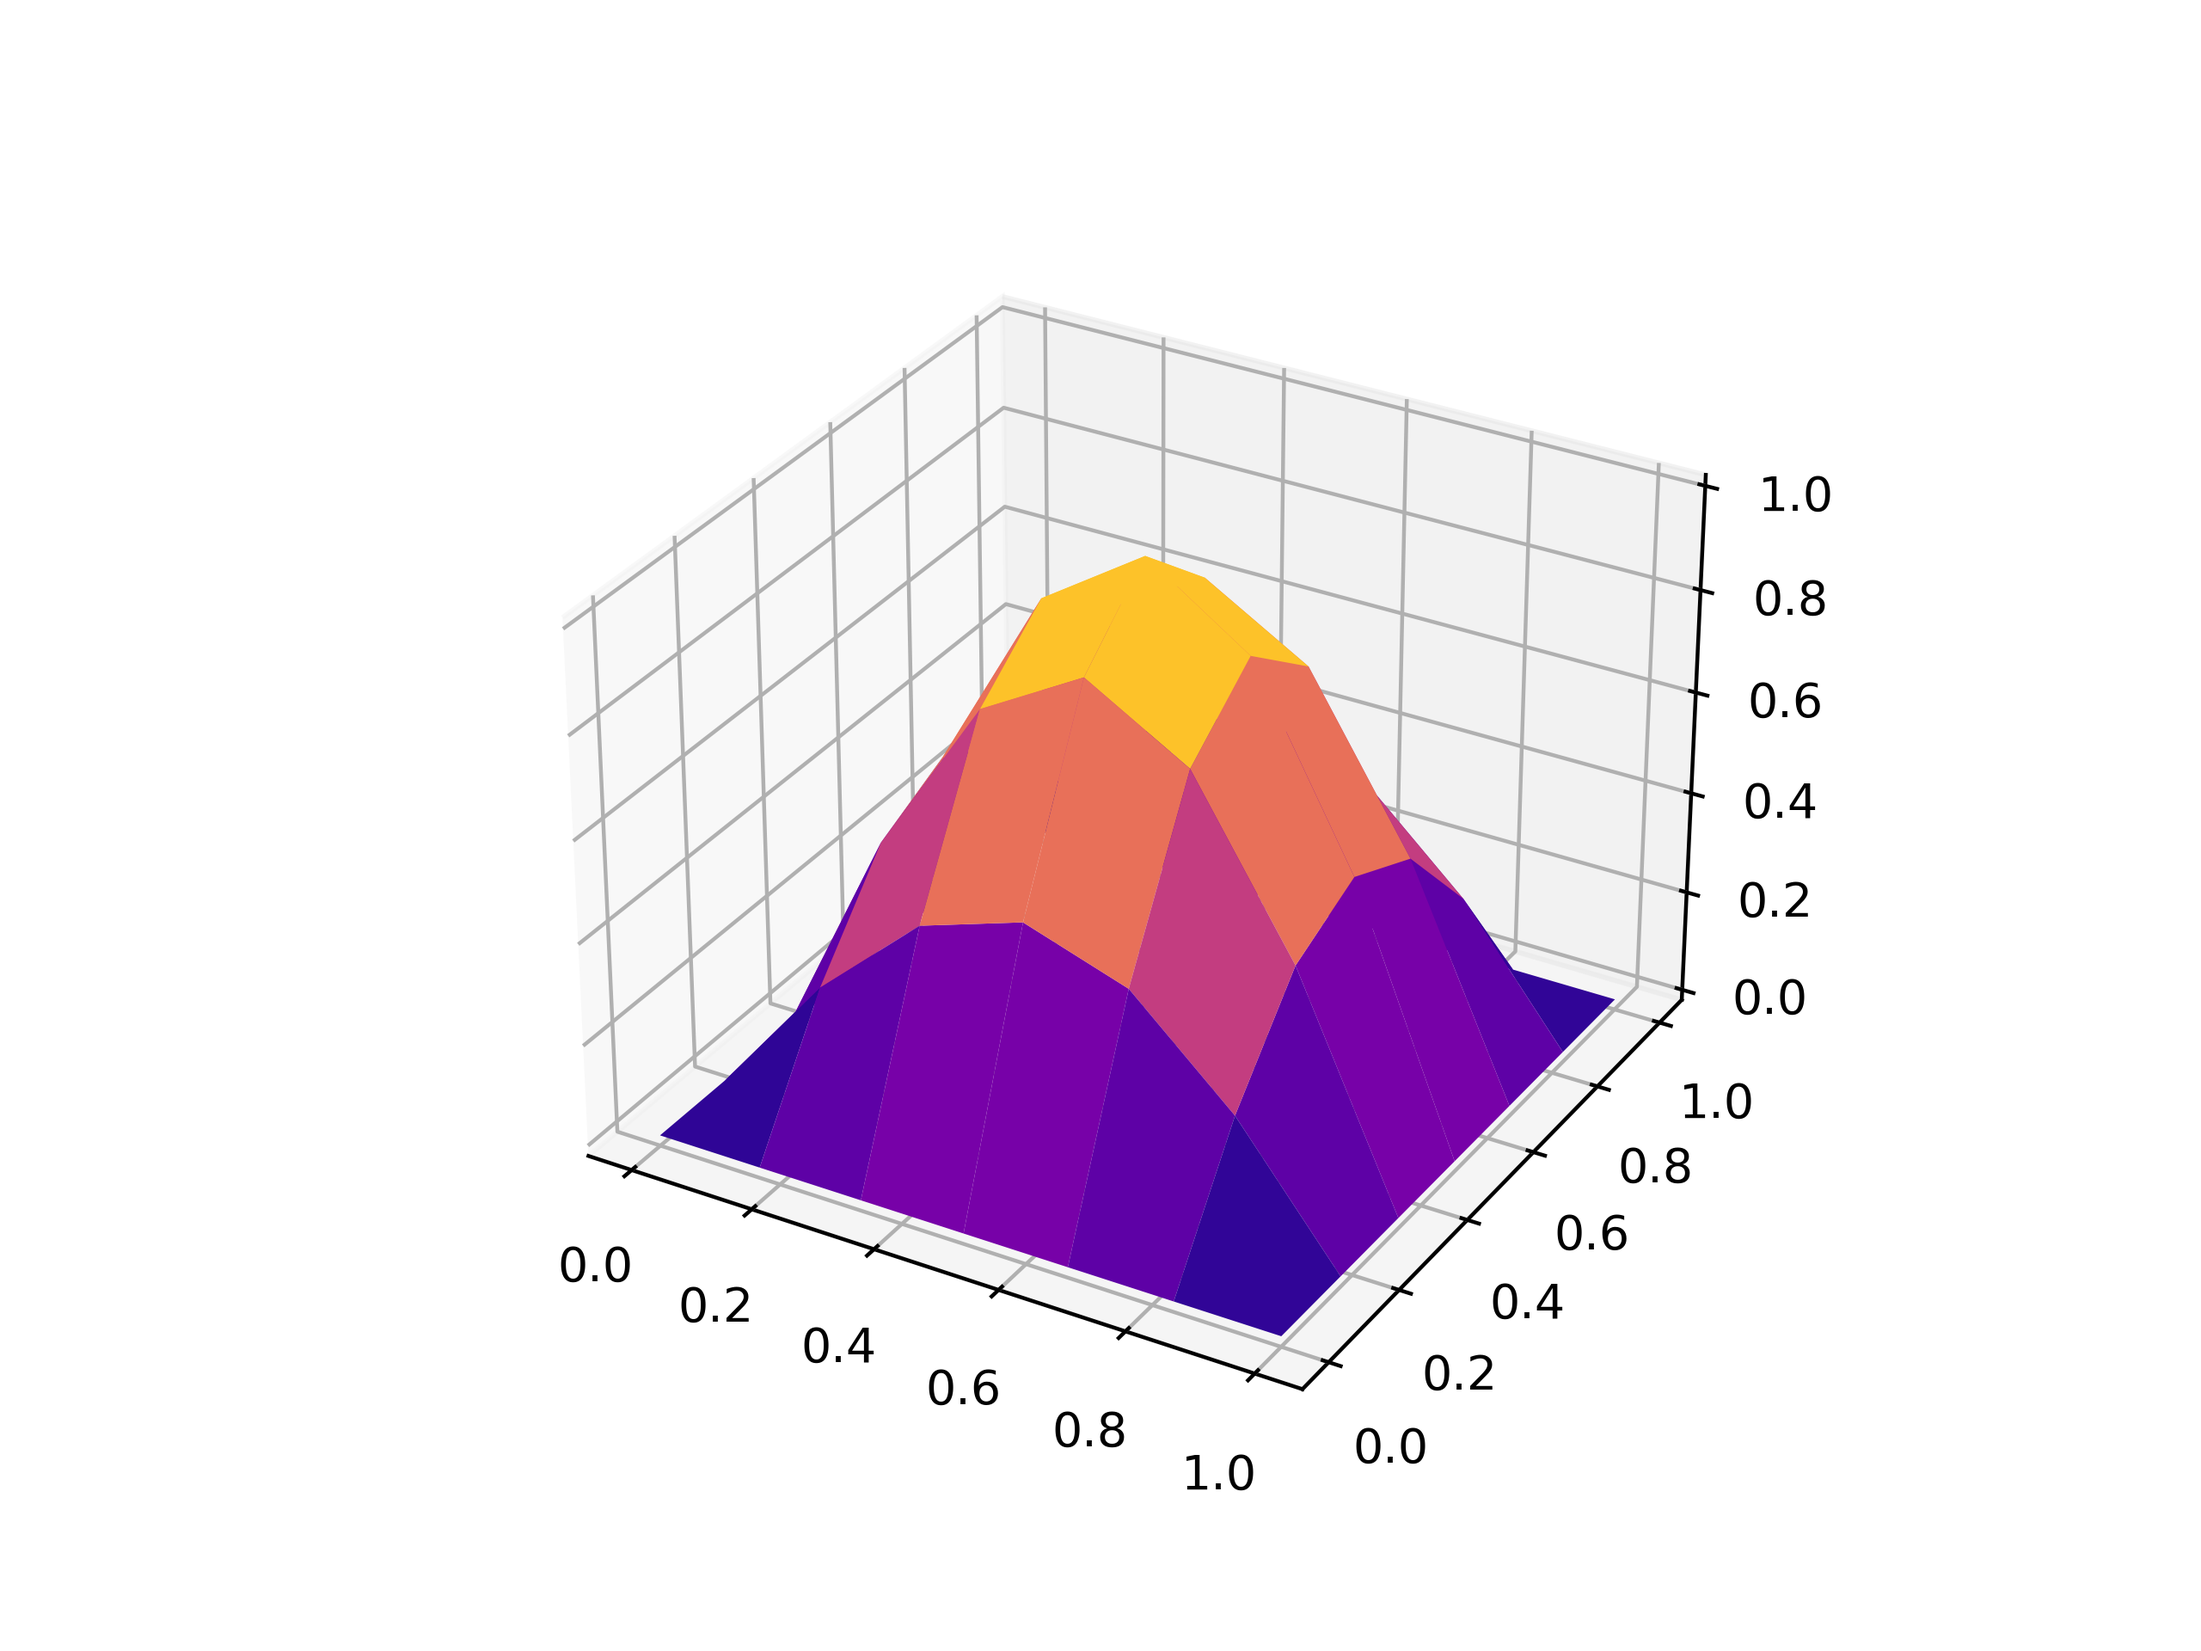
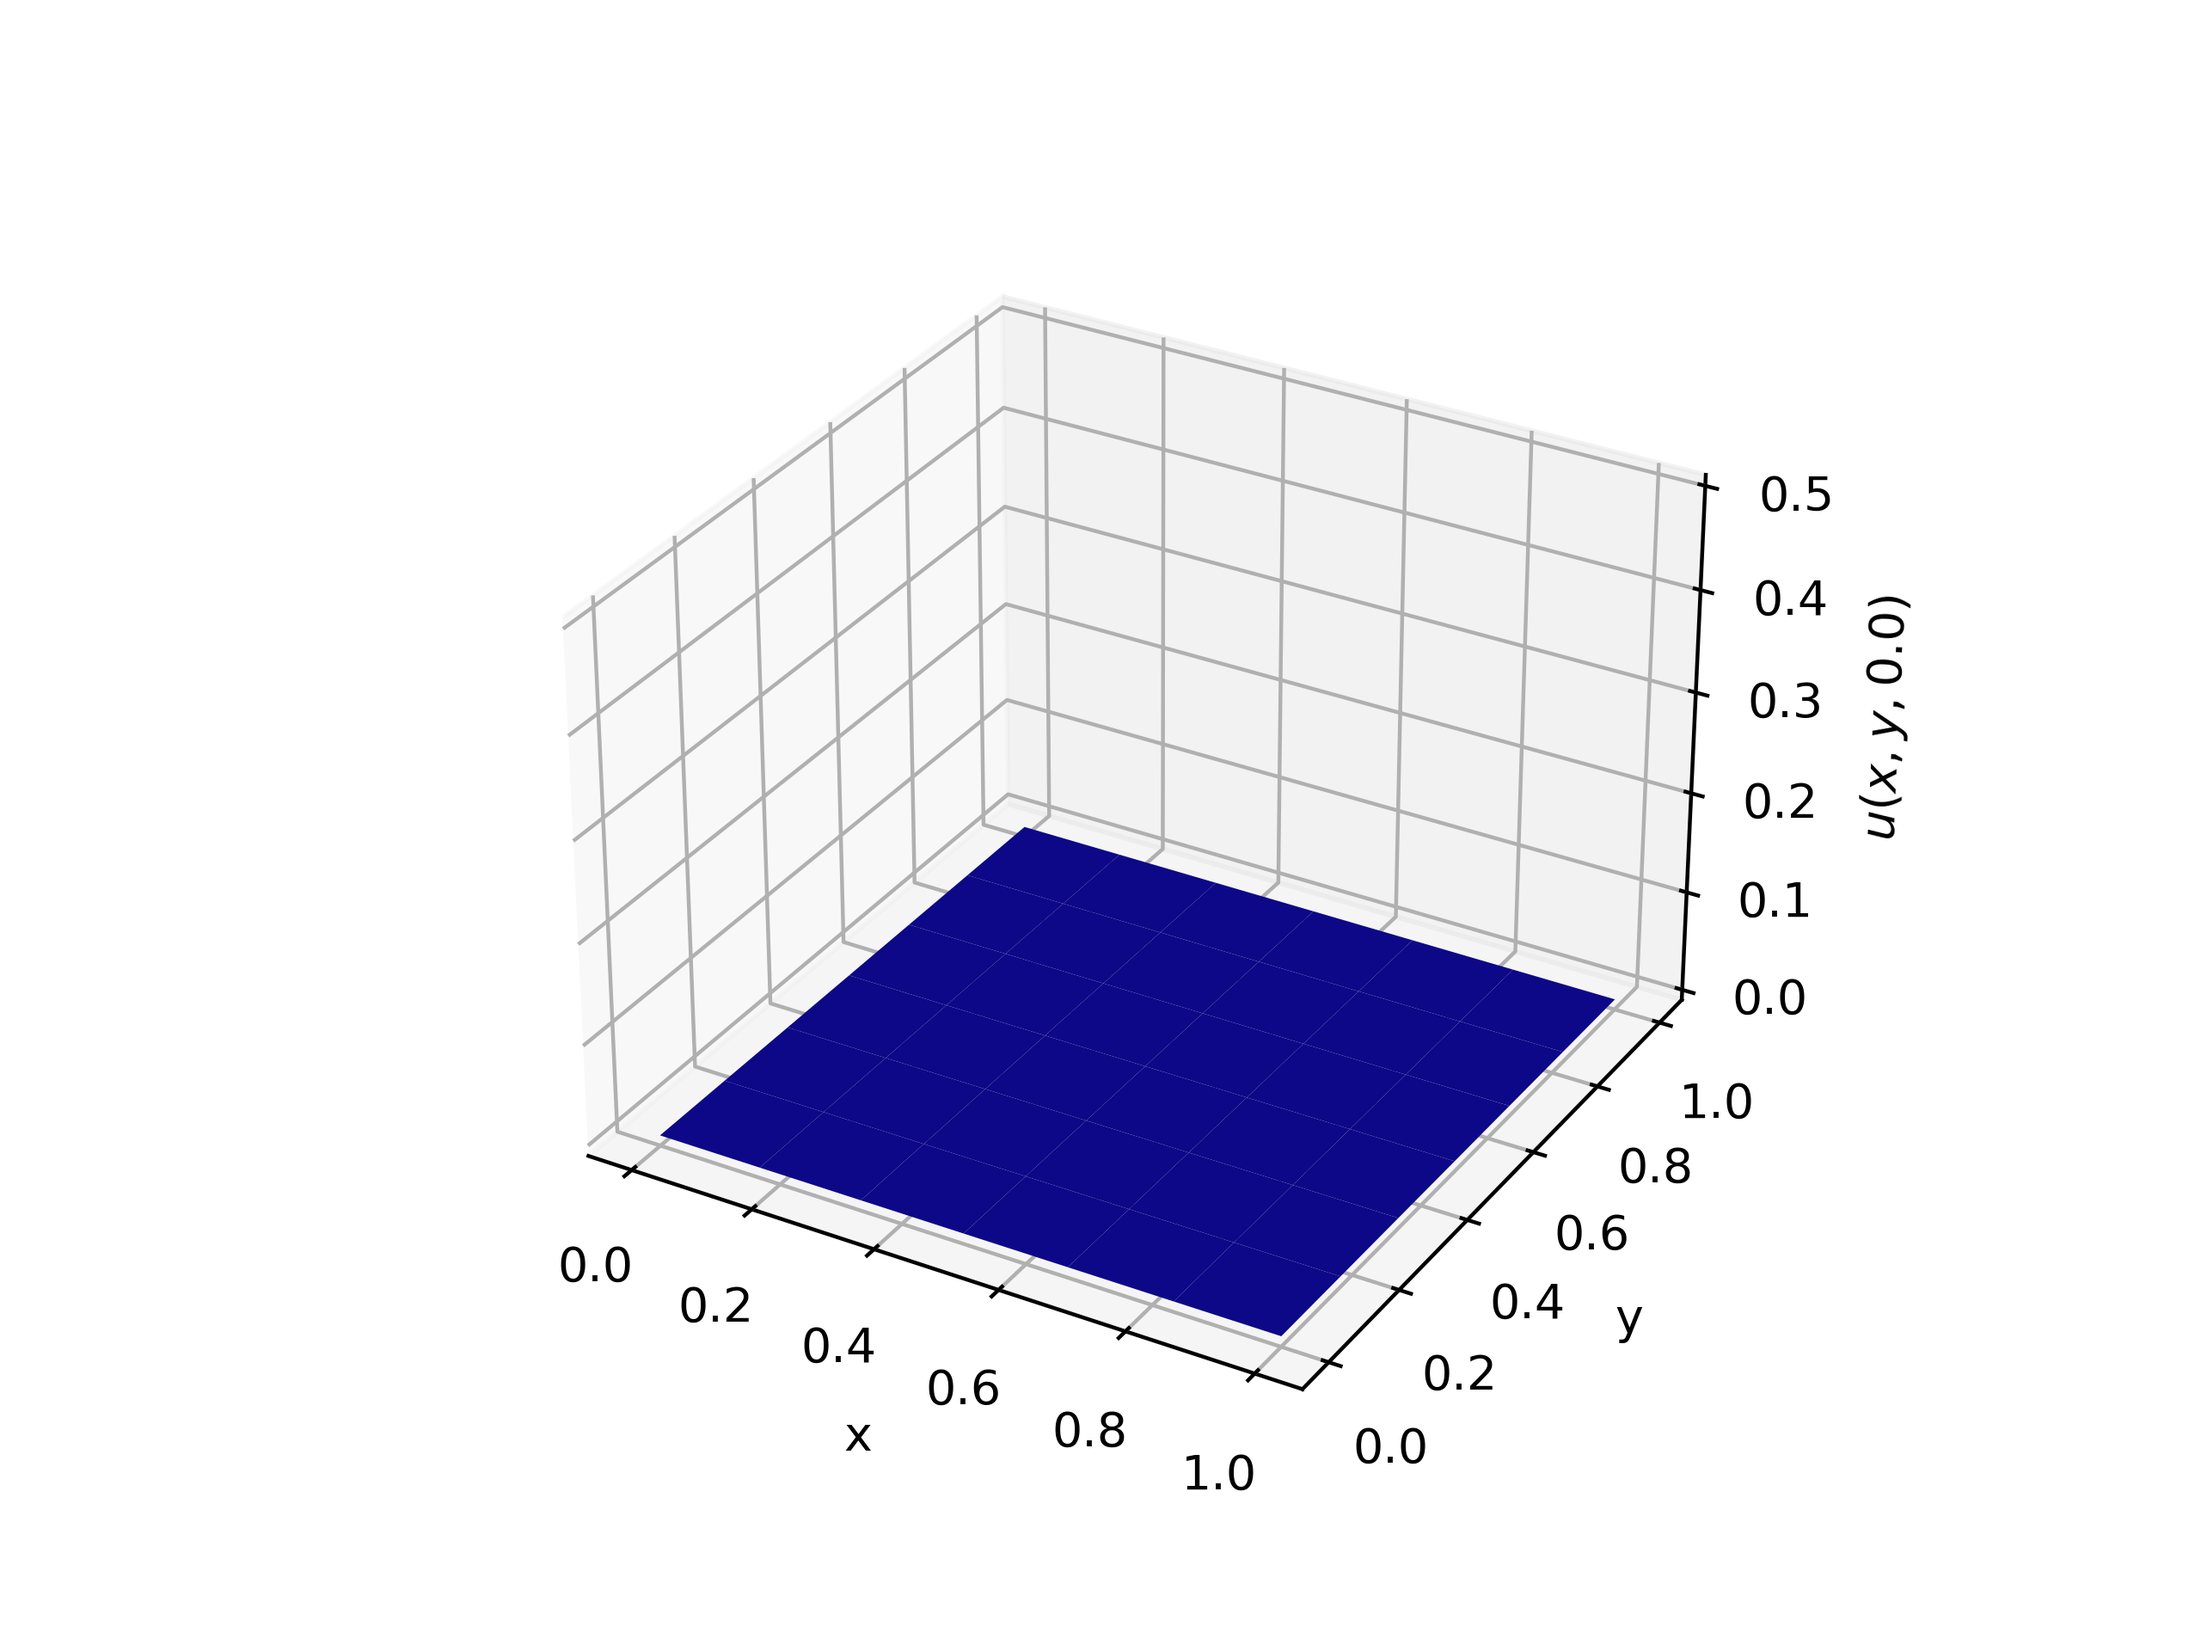
Add files via upload

Changed region(s): [[0.3125, 0.3125, 0.75, 0.8125], [0.8125, 0.3438, 0.875, 0.5], [0.7812, 0.2812, 0.8438, 0.3125]]

diff --git a/code/working/scripts/heat equation/heat_equation_2+1dim_testing.py b/code/working/scripts/heat equation/heat_equation_2+1dim_testing.py
@@ -13,7 +13,7 @@ from tools import basis_functions as bf
 from tools import vector_products as vp
 
 steps = 100 # accuracy or steps in integrals
- 
+
 # defining mesh
 H = 7
 x = np.linspace(0, 1, H)
@@ -25,16 +25,17 @@ elements = [[[x[i]  , y[j]  ],
              [x[i+1], y[j]  ], 
              [x[i]  , y[j+1]], 
              [x[i+1], y[j+1]]] for i in range(H-1) for j in range(H-1)]
- 
+
 # declaring time stepping nececities
 dt = .01 # change in time
 time_steps = 50 # amount of iterations we want
-u_0 = [np.sin(np.pi*x[0]) * np.sin(np.pi*x[1]) for x in vertices] # inital condtions at time=0
+#u_0 = [np.sin(np.pi*x[0]) * np.sin(np.pi*x[1]) for x in vertices] # inital condtions at time=0
+u_0 = [0 for x in vertices] # inital condtions at time=0
 u_sols = [u_0] # list for keeping track of evolution of system
 A_sols = []
 
 def force(x, t):
-    return 0
+    return ((2*(np.pi**2)*t) + 1) * np.sin(np.pi*x[0]) * np.sin(np.pi*x[1])
 
 # functions for calculation the entries of matrices
 def f(vert, x, u, time):
@@ -90,20 +91,20 @@ fps = frn//3
 
 def change_plot(frame_number, func_u_sols, plot):
    plot[0].remove()  
-   plot[0] = ax.plot_surface(X, Y, func_u_sols[frame_number], cmap="plasma", vmin=0, vmax=1)
+   plot[0] = ax.plot_surface(X, Y, func_u_sols[frame_number], cmap="plasma", vmin=0, vmax=.5)
 
 fig = plt.figure()
 ax = fig.add_subplot(projection='3d')
 plot = [ax.plot_surface(X, Y, func_u_sols[0])]
-ax.set_zlim(0, 1)
+ax.set_zlim(0, .5)
 ax.set_xlabel("x")
 ax.set_ylabel("y")
 ax.set_zlabel("u(x, y, t)")
-ax.set_title(r"$ \frac{\partial u}{\partial t} = \nabla^2 u $ with $u(x,y,0) = sin(\pi x)sin(\pi y)$")
+ax.set_title(r"$ \frac{\partial u}{\partial t} - \nabla^2 u = (2 \pi ^2 t + 1)sin(\pi x)sin(\pi y)$ with $u(x,y,0) = 0$")
 
 ani = animation.FuncAnimation(fig, change_plot, frn, fargs=(func_u_sols, plot), interval=1000 / fps)
-#fn = 'plot'
-#ani.save(fn+'.gif',writer='PillowWriter',fps=fps, dpi=400)
+fn = 'plot'
+ani.save(fn+'.gif',writer='PillowWriter',fps=fps, dpi=400)
 plt.show()
 
 # plot of matrix for first iteration
@@ -117,30 +118,30 @@ plt.clf()
 iter1 = 0
 fig = plt.figure()
 ax = plt.axes(projection ='3d')
-ax.axes.set_zlim3d(bottom=0, top=1) 
-ax.plot_surface(X, Y, func_u_sols[iter1], cmap="plasma", vmin=0, vmax=1)
+ax.axes.set_zlim3d(bottom=0, top=.5) 
+ax.plot_surface(X, Y, func_u_sols[iter1], cmap="plasma", vmin=0, vmax=.5)
 ax.set_xlabel('x')
 ax.set_ylabel('y')
 ax.set_zlabel(f'$u(x, y, {iter1*dt})$')
 plt.savefig(f"heat_equ_iter{iter1}", dpi=400)
 
 plt.clf()
-iter2 = int(len_u_sols/12)
+iter2 = int(len_u_sols*(1/3))
 fig = plt.figure()
 ax = plt.axes(projection ='3d')
-ax.axes.set_zlim3d(bottom=0, top=1) 
-ax.plot_surface(X, Y, func_u_sols[iter2], cmap="plasma", vmin=0, vmax=1)
+ax.axes.set_zlim3d(bottom=0, top=.5) 
+ax.plot_surface(X, Y, func_u_sols[iter2], cmap="plasma", vmin=0, vmax=.5)
 ax.set_xlabel('x')
 ax.set_ylabel('y')
 ax.set_zlabel(f'$u(x, y, {iter2*dt})$')
 plt.savefig(f"heat_equ_iter{iter2}", dpi=400)
 
 plt.clf()
-iter3 = int(len_u_sols/6)
+iter3 = int(len_u_sols*(2/3))
 fig = plt.figure()
 ax = plt.axes(projection ='3d')
-ax.axes.set_zlim3d(bottom=0, top=1) 
-ax.plot_surface(X, Y, func_u_sols[iter3], cmap="plasma", vmin=0, vmax=1)
+ax.axes.set_zlim3d(bottom=0, top=.5) 
+ax.plot_surface(X, Y, func_u_sols[iter3], cmap="plasma", vmin=0, vmax=.5)
 ax.set_xlabel('x')
 ax.set_ylabel('y')
 ax.set_zlabel(f'$u(x, y, {iter3*dt})$')
@@ -150,9 +151,10 @@ plt.clf()
 iter4 = time_steps
 fig = plt.figure()
 ax = plt.axes(projection ='3d')
-ax.axes.set_zlim3d(bottom=0, top=1) 
-ax.plot_surface(X, Y, func_u_sols[iter4], cmap="plasma", vmin=0, vmax=1)
+ax.axes.set_zlim3d(bottom=0, top=.5) 
+ax.plot_surface(X, Y, func_u_sols[iter4], cmap="plasma", vmin=0, vmax=.5)
 ax.set_xlabel('x')
 ax.set_ylabel('y')
 ax.set_zlabel(f'$u(x, y, {iter4*dt})$')
 plt.savefig(f"heat_equ_iter{iter4}", dpi=400)
+

diff --git a/code/working/scripts/stokes/stokes_2dim_ele copy.py b/code/working/scripts/stokes/stokes_2dim_ele copy.py
@@ -11,10 +11,10 @@ sys.path.append(top_dir)
 from tools import basis_functions as bf
 from tools import vector_products as vp
 
-steps = 500 # accuracy or steps in integrals
+steps = 200 # accuracy or steps in integrals
 
 # defining mesh
-H = 3 + (2*3)
+H = 3 + (2*4)
 x = np.linspace(0, 1, H)
 y = np.linspace(0, 1, H)
 X, Y = np.meshgrid(x, y)
@@ -34,37 +34,17 @@ for i in list(np.arange(0, H-1, 2)):
         quad_elements.append(element)
 
 # manufacturing solutions to stokes equation
+
 nu = 1 # viscocity
-u_1 = lambda x: 2*np.pi*(1 - np.cos(2*np.pi*x[0]))*np.sin(2*np.pi*x[1])
-u_2 = lambda x: -2*np.pi*(1 - np.cos(2*np.pi*x[1]))*np.sin(2*np.pi*x[0])
-
-p = lambda x: np.sin(2*np.pi*x[0]) * np.sin(2*np.pi*x[1])
-
-# first derivatives
-dx_p = lambda x: np.gradient(p(x), h, edge_order=2)[1]
-dy_p = lambda x: np.gradient(p(x), h, edge_order=2)[0]
-
-dx_u1 = lambda x: np.gradient(u_1(x), h, edge_order=2)[1]
-dy_u1 = lambda x: np.gradient(u_1(x), h, edge_order=2)[0]
-
-dx_u2 = lambda x: np.gradient(u_2(x), h, edge_order=2)[1]
-dy_u2 = lambda x: np.gradient(u_2(x), h, edge_order=2)[0]
-
-# second derivatives
-ddx_u1 = lambda x: np.gradient(dx_u1(x), h, edge_order=2)[1]
-ddy_u1 = lambda x: np.gradient(dy_u1(x), h, edge_order=2)[0]
-
-ddx_u2 = lambda x: np.gradient(dx_u2(x), h, edge_order=2)[1]
-ddy_u2 = lambda x: np.gradient(dy_u2(x), h, edge_order=2)[0]
 
 # declaring appropriate forcing functions
-f_1 = lambda x: (nu*(ddx_u1(x) + ddy_u1(x))) - dx_p(x)
-f_2 = lambda x: (nu*(ddx_u2(x) + ddy_u2(x))) - dy_p(x)
+f_1 = lambda x: x[0]
+f_2 = lambda x: x[1]
 
 # declaring appropriate funtions for block matrices
 gdg        = lambda vert0, vert1, x, h:  nu * vp.grad_dot_grad(bf.psi_2d(vert0, x, h), bf.psi_2d(vert1, x, h) , h)
-hat_dx_psi = lambda vert0, vert1, x, h:  -bf.phi_2d(vert0, x, h) * (np.gradient(bf.psi_2d(vert1, x, h), h)[1])
-hat_dy_psi = lambda vert0, vert1, x, h:  -bf.phi_2d(vert0, x, h) * (np.gradient(bf.psi_2d(vert1, x, h), h)[0])
+hat_dx_psi = lambda vert0, vert1, x, h:  bf.phi_2d(vert0, x, h) * (np.gradient(bf.psi_2d(vert1, x, h), h)[1])
+hat_dy_psi = lambda vert0, vert1, x, h:  bf.phi_2d(vert0, x, h) * (np.gradient(bf.psi_2d(vert1, x, h), h)[0])
 
 #gdg        = lambda vert0, vert1, x, h: nu * vp.grad_dot_grad_psi2d(vert0, vert1, x, h)
 #hat_dx_psi = lambda vert0, vert1, x, h: bf.phi_2d(vert0, x, h) * bf.dx_psi_2d(vert1, x, h)

diff --git a/code/working/scripts/1d poisson/poisson_1dim_ele_dirichlet.py b/code/working/scripts/1d poisson/poisson_1dim_ele_dirichlet.py
@@ -13,8 +13,10 @@ top_dir = os.path.abspath(os.path.join(current_dir, "..", ".."))
 sys.path.append(top_dir)
 
 from tools import basis_functions as bf
+from tools import norms as nrm
 
 N = 200
+num_step = 10000 # number of steps in calculation of integrals
 
 def solve_poisson(H):   
     """Container function for main part of code. The purpose of this is to create an easy way to 
@@ -31,7 +33,6 @@ def solve_poisson(H):
     elements = [[vertices[i], vertices[i+1]] for i in range(H-1)]
     h = vertices[1] - vertices[0]
 
-    num_step = 10000 # number of steps in calculation of integrals
 
     def force(x):
         return -x
@@ -76,7 +77,7 @@ def solve_poisson(H):
 
 
 poisson_sols = []
-vert_num = [50]#[3, 5, 20]
+vert_num = [3, 5, 20]
 for num in vert_num:
     sol = solve_poisson(num)
     poisson_sols.append(sol)
@@ -98,3 +99,10 @@ for i in range(len(vert_num)):
     plt.colorbar()
     plt.show()
     #plt.savefig(f"(Poisson_1d)_(lin_matrix_A)_(vertex_num_{H})")
+    
+""" a method of measuring how accurate our solutions are would be to use a norm on functions.
+There is an $L^2$ norm which is used to comapare functions. We would simply take the difference 
+of our solution and its analytical solution and throw it into this norm.
+"""
+
+print()

diff --git a/code/working/scripts/1d poisson/poisson_1dim_ele_neumann.py b/code/working/scripts/1d poisson/poisson_1dim_ele_neumann.py
@@ -15,15 +15,23 @@ sys.path.append(top_dir)
 from tools import basis_functions as bf
 
 N = 200
+num_step = 10000
 
 def solve_poisson(H):    
-    #H = 50 # number of vertices
+    """Container function for main part of code. The purpose of this is to create an easy way to 
+    run solver with various parameters.
+
+    Args:
+        H (int): number of nodes
+
+    Returns:
+        _type_: _description_
+    """ 
+    
     vertices = list(np.linspace(0, 1, H))
     print(vertices)
     elements = [[vertices[i], vertices[i+1]] for i in range(H-1)]
     h = vertices[1] - vertices[0]
-    precision = 0.0001 # precision in integration in each element
-    num_step = round(1/precision)
 
     def force(x):
         return -2

diff --git a/code/working/scripts/basis_func_display/plot_quad_basis_sum copy.py b/code/working/scripts/basis_func_display/plot_quad_basis_sum copy.py
@@ -24,13 +24,13 @@ vertices = np.linspace(0, 1, H)
 h = vertices[1] - vertices[0]
 
 func1 = 1 * bf.quad(0, x, h)
-func2 = 3 * bf.quad(.5, x, h)
-func3 = 3 * bf.quad(1, x, h)
+func2 = 1 * bf.quad(.5, x, h)
+func3 = 1 * bf.quad(1, x, h)
 func_sum = func1 + func2 + func3
 
-plt.plot(x, func1, label=r"$ 1 \psi_{0}(x)$", linestyle="--")
-plt.plot(x, func2, label=r"$ 3 \psi_{0.5}(x)$", linestyle="--")
-plt.plot(x, func3, label=r"$ 3 \psi_{1}(x)$", linestyle="--")
+plt.plot(x, func1, label=r"$ \psi_{0}(x)$", linestyle="--")
+plt.plot(x, func2, label=r"$ \psi_{0.5}(x)$", linestyle="--")
+plt.plot(x, func3, label=r"$ \psi_{1}(x)$", linestyle="--")
 plt.plot(x, func_sum, label="sum of bases")
 
 plt.xlabel("x")

diff --git a/code/working/scripts/basis_func_display/2d_hat_plot.py b/code/working/scripts/basis_func_display/2d_hat_plot.py
@@ -1,5 +1,5 @@
 """
-Plotting of 2dim hat function, which becomes our basis function.
+Plotting of 2dim hat function
 """
 
 import numpy as np
@@ -21,6 +21,9 @@ X, Y = np.meshgrid(x, y)
 fig = plt.figure()
 ax = plt.axes(projection ='3d')
 
-ax.plot_surface(X, Y, bf.hat_2d((0.5, 0.5), (X, Y), .5/2), cmap="viridis")
+ax.plot_surface(X, Y, bf.hat_2d((0.5, 0.5), (X, Y), .25), cmap="viridis")
+ax.set_xlabel('x')
+ax.set_ylabel('y')
+ax.set_zlabel(r'$\phi_{\frac{1}{2},\frac{1}{2}}(x,y)$')
 plt.savefig("hat_basis_2d.png", dpi=500)
 plt.show()

diff --git a/code/working/scripts/basis_func_display/plot_quad_basis_even.py b/code/working/scripts/basis_func_display/plot_quad_basis_even.py
@@ -1,0 +1,25 @@
+import numpy as np
+import matplotlib.pyplot as plt
+
+import os
+import sys
+current_dir = os.getcwd()
+top_dir = os.path.abspath(os.path.join(current_dir, "..", ".."))
+sys.path.append(top_dir)
+
+from tools import basis_functions as bf
+
+N = 1000
+x = np.linspace(0, 1, N)
+
+H = 6
+vertices = np.linspace(0, 1, H)
+h = vertices[1] - vertices[0]
+
+func1 = 1 * bf.quad_e(.5, x, h)
+
+plt.plot(x, func1, label=r"$even$")
+
+plt.xlabel("x")
+plt.savefig("quad_basis_even")
+plt.show()

diff --git a/code/working/scripts/basis_func_display/plot_quad_basis_odd.py b/code/working/scripts/basis_func_display/plot_quad_basis_odd.py
@@ -1,0 +1,25 @@
+import numpy as np
+import matplotlib.pyplot as plt
+
+import os
+import sys
+current_dir = os.getcwd()
+top_dir = os.path.abspath(os.path.join(current_dir, "..", ".."))
+sys.path.append(top_dir)
+
+from tools import basis_functions as bf
+
+N = 1000
+x = np.linspace(0, 1, N)
+
+H = 6
+vertices = np.linspace(0, 1, H)
+h = vertices[1] - vertices[0]
+
+func2 = 1 * bf.quad_o(.5, x, h)
+
+plt.plot(x, func2, label=r"$odd$")
+
+plt.xlabel("x")
+plt.savefig("quad_basis_odd")
+plt.show()

diff --git a/code/working/scripts/basis_func_display/2d_quad_plot.py b/code/working/scripts/basis_func_display/2d_quad_plot.py
@@ -1,3 +1,8 @@
+"""
+Plotting of 2dim quadratic basis functions
+"""
+
+
 import numpy as np
 import matplotlib.pyplot as plt
 
@@ -9,7 +14,9 @@ sys.path.append(top_dir)
 
 from tools import basis_functions as bf 
 
-N = 100
+
+
+N = 200
 x = np.linspace(0, 1, N)
 y = np.linspace(0, 1, N)
 X, Y = np.meshgrid(x, y)

diff --git a/code/working/scripts/basis_func_display/basis_2d_surface_plot copy.py b/code/working/scripts/basis_func_display/basis_2d_surface_plot copy.py
@@ -1,3 +1,7 @@
+"""
+
+"""
+
 import numpy as np
 import matplotlib.pyplot as plt
 
